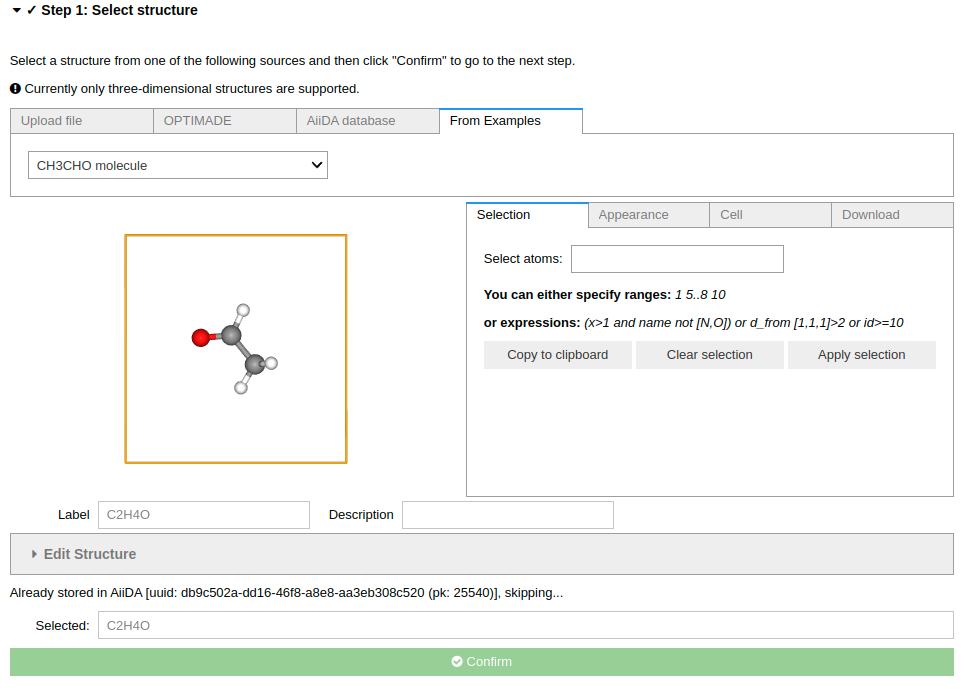
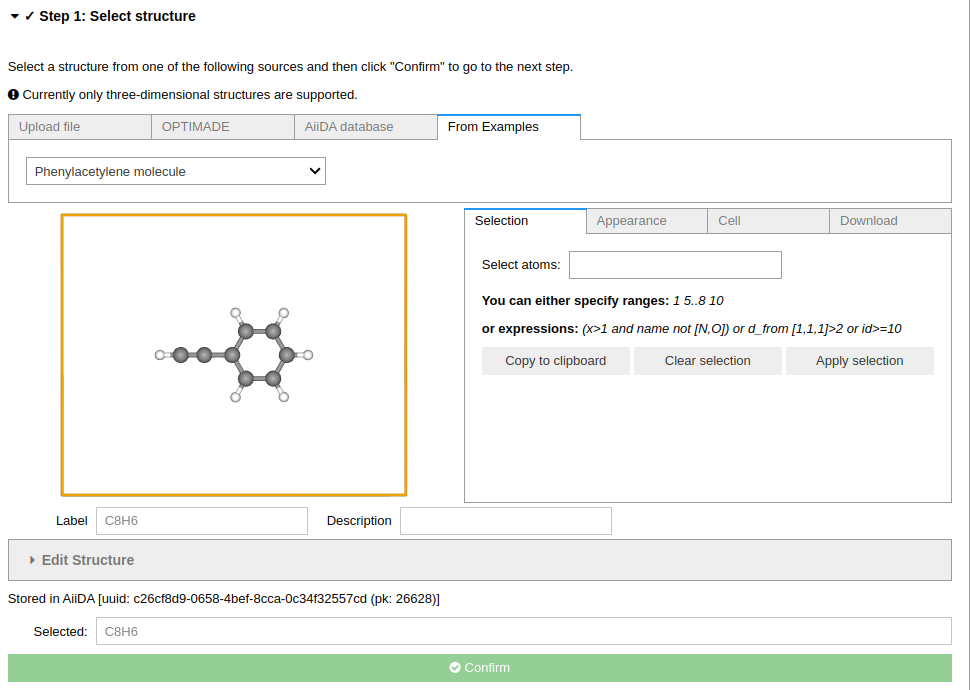
use Phenylacetylene as XPS example

diff --git a/src/aiidalab_qe/app/structure/__init__.py b/src/aiidalab_qe/app/structure/__init__.py
@@ -33,7 +33,7 @@ Examples = [
     ("Gold (fcc)", file_path / "examples" / "Au.cif"),
     ("Cobalt (hcp)", file_path / "examples" / "Co.cif"),
     ("Lithium carbonate", file_path / "examples" / "Li2CO3.cif"),
-    ("CH3CHO molecule", file_path / "examples" / "CH3CHO.xyz"),
+    ("Phenylacetylene molecule", file_path / "examples" / "Phenylacetylene.xyz"),
     ("ETFA molecule", file_path / "examples" / "ETFA.xyz"),
 ]
 

diff --git a/docs/source/howto/xps.rst b/docs/source/howto/xps.rst
@@ -4,7 +4,7 @@ How to calculate XPS spectra
 
 Overview
 ========
-This tutorial will guide you through the process of setting up and running an XPS calculation for CH\ :sub:`3`\CHO molecule.
+This tutorial will guide you through the process of setting up and running an XPS calculation for Phenylacetylene molecule.
 
 
 Steps
@@ -15,7 +15,7 @@ To start, go ahead and :doc:`launch </installation/launch>` the app, then follow
 
 Step 1 Select a structure
 --------------------------------
-For this tutorial task, please use the `From Example` tab, and select the CH\ :sub:`3`\CHO molecule structure.
+For this tutorial task, please use the `From Example` tab, and select the Phenylacetylene molecule structure.
 
 In the end, click the `Confirm` button.
 
@@ -31,7 +31,6 @@ In the **Basic Setting** tab, set the parameters which are highlighted as follow
 - In the **Structure optimization** section, select ``Structure as is``.
 - Set **Electronic Type** to ``Insulator``
 - In the **properties** section, select ``X-ray photoelectron spectroscopy (XPS)``
-- In the **protocol** section, please select `fast` as the protocol for this calculation, in order to quickly get the result.
 
 
 Then go to the **Advanced settings** tab, navigate to `Accuracy and precision`, tick the `Override` box on the right-hand-side and in the dropdown box under `Exchange-correlation functional` select `PBE`.
@@ -56,23 +55,23 @@ Then, lick the **Confirm** button.
 
 Step 3 Choose computational resources
 ---------------------------------------
+We need to use a `pw` code on the high-performance computer to run XPS calculation for this system.
+Please read the relevant :doc:`How-To </howto/setup_computer_code>` section to setup code on a remote machine.
 
-For this small system, we can use the local computer (``localhost``) to run the calculation. The code ``pw-7.2@localhost`` should already be selected by default.
+In the **Resources** section, you can set the number of CPUs to 16.
 
-In the **Resources** section, you can set the number of CPUs to 4 for the test.
+.. image:: ../_static/images/xps_step_3.png
+   :align: center
+
 
 Then, click the **Submit** button.
-
-.. note::
-
-   In pratice, one usually need high-performance computer to run XPS calculation for large system. Please read the relevant :doc:`How-To </howto/setup_computer_code>` section to setup code on a remote machine.
-
 
 
 
 Step 4 Check the status and results
 -----------------------------------------
-The job may take ~2 minutes to finish.
+The job may take 5~10 minutes to finish if your jobs are running immediately without waiting in the queue.
+
 While the calculation is running, you can monitor its status as shown in the :ref:`basic tutorial <basic_status>`.
 When the job is finished, you can view result spectra in the `XPS` tab.
 
@@ -85,19 +84,28 @@ Here is the result of the XPS calculation.
 You can click the **Binding energy** button to view the calculated binding energies.
 You can change which element to view XPS spectra for using the dropdown box in the top left.
 
-.. figure:: /_static/images/xps_step_4.png
+.. figure:: /_static/images/xps_step_4_xps_tab.png
    :align: center
+
+One can upload the experimental XPS spectra, and compare to the calculated XPS spectra.
+There is a button on the bottom left of the XPS tab to upload the experimental data.
+Here is an example of the comparison between the calculated and experimental XPS spectra [1] for the C_1s core level of Phenylacetylene.
+
+.. figure:: /_static/images/xps_step_4_pa_exp.png
+   :align: center
+
+The calculated spectra agrees well with the experimental data, underscoring the reliability of DFT calculations.
+
 
 .. tip::
 
-   One can read the exact binding energies from the the output of the calculation, by clicking the `outputs` tab on the node tree of the WorkChain, as shown below.
+   One can also read the exact binding energies from the the output of the calculation, by clicking the `outputs` tab on the node tree of the WorkChain, as shown below.
 
    .. figure:: /_static/images/xps_step_4_output.png
       :align: center
 
 
-   When comparing the these binding energies to the experimental data, please correct the energies by the given offset listed in the ``Offset Energies`` table in the button of the XPS result tab.
-   Besides, the DFT calculated binding energies do not include spin-orbit splitting of the core level state.
+   The DFT calculated binding energies do not include spin-orbit splitting of the core level state.
    We can include the spin-orbit splitting using its experimental value.
    Take `f` orbit as a example, we need subtracting :math:`3/7` of the experimental spin-orbit splitting or adding :math:`4/7` of the DFT calculated value, to get the position of the :math:`4f_{7/2}` and :math:`4f_{5/2}` peaks, respectively. Here is a table of the spin-orbit splitting for different orbitals.
 
@@ -113,40 +121,45 @@ You can change which element to view XPS spectra for using the dropdown box in t
    | 4f             | :math:`3/7`       |  :math:`4/7`      |
    +----------------+-------------------+-------------------+
 
+
+
 Congratulations, you have finished this tutorial!
 
 
-A real world example
+Another example
 ====================
-ETFA is commonly used as example for XPS measurements and calculations due to the extreme chemical shifts of its four different carbon atoms. [1]
+ETFA is commonly used as example for XPS measurements and calculations due to the extreme chemical shifts of its four different carbon atoms. [2]
 
 .. tip::
 
    One can select the ETFA molecule from the `From Example` tab, and follow the same steps as above to run the XPS calculation for this molecule.
-   One need use a high-performance computer to run XPS calculation for this system. Please read the relevant :doc:`How-To </howto/setup_computer_code>` section to setup code on a remote machine.
-
 
 Here is the result of the XPS calculation for the ETFA molecule.
-
 
 .. figure:: /_static/images/xps_etfa_dft.png
    :align: center
 
-Here is the chemical shift from experiment. [1]
+Here is the chemical shift from experiment. [2]
 
 .. figure:: /_static/images/xps_etfa_exp.jpg
    :align: center
 
 
 The calculated relative shifts align well with the trends observed in experimental data, underscoring the reliability of DFT calculations.
-Although there are minor discrepancies in the absolute shift values, this is a recognized limitation stemming from the approximations in the exchange-correlation functional within DFT frameworks. [2]
+Although there are minor discrepancies in the absolute shift values, this is a recognized limitation stemming from the approximations in the exchange-correlation functional within DFT frameworks. [3]
 
 Questions
 =========
 
 If you have any questions, please, do not hesitate to ask on the AiiDA discourse forum: https://aiida.discourse.group/.
 
-[1] O. Travnikova *et al.*, , *Relat. Phenom.* 185, 191 (2012)
-https://doi.org/10.1016/j.elspec.2012.05.009
-[2] B.P. Klein  *et al.*, , *J. Phys. Condens. Matter* 33, 154005 (2021)
-https://doi.org/10.1088/1361-648X/abdf00
+
+
+References
+==========
+
+[1] V. Carravetta, *et al.*, *Chem. Phys.* 264, 175 (2001) https://doi.org/10.1016/S0301-0104(00)00396-7
+
+[2] O. Travnikova, *et al.*, , *Relat. Phenom.* 185, 191 (2012) https://doi.org/10.1016/j.elspec.2012.05.009
+
+[3] B.P. Klein,  *et al.*, , *J. Phys. Condens. Matter* 33, 154005 (2021) https://doi.org/10.1088/1361-648X/abdf00
